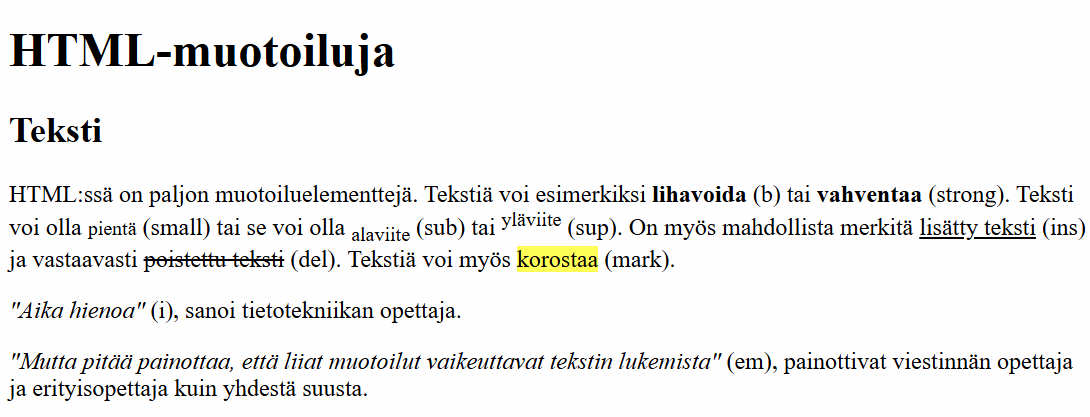
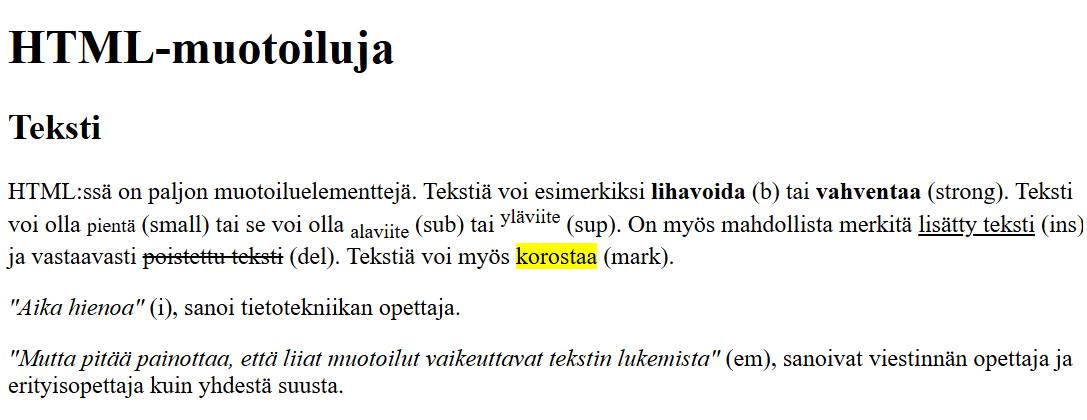
Edited t4 and muotoiluja_a.png.

diff --git a/tehtavat/t4.md b/tehtavat/t4.md
@@ -27,7 +27,7 @@ alaviite (sub) tai yläviite (sup). On myös mahdollista merkitä lisätty tekst
 "Aika hienoa" (i), sanoi tietotekniikan opettaja.
 
 "Mutta pitää painottaa, että liiat muotoilut vaikeuttavat tekstin lukemista"
-(em), painottivat viestinnän opettaja ja erityisopettaja kuin yhdestä suusta.
+(em), sanoivat viestinnän opettaja ja erityisopettaja kuin yhdestä suusta.
 ```
 Muotoillun tekstin jälkeen suluissa on kyseinen elementti. Esimerkiksi (b)
 tarkoittaa elementtiä `<b>`.
